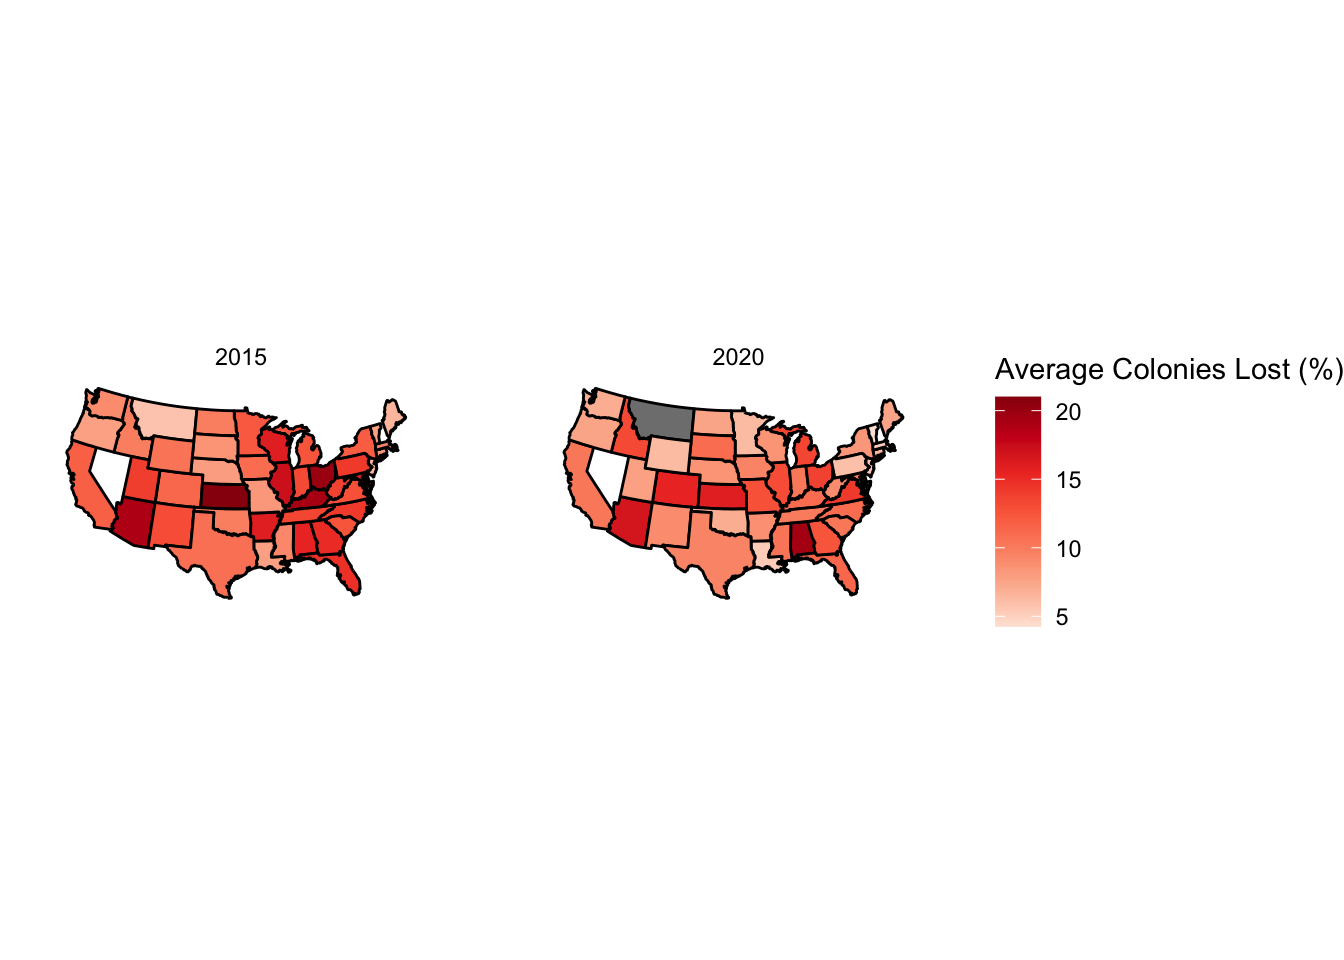
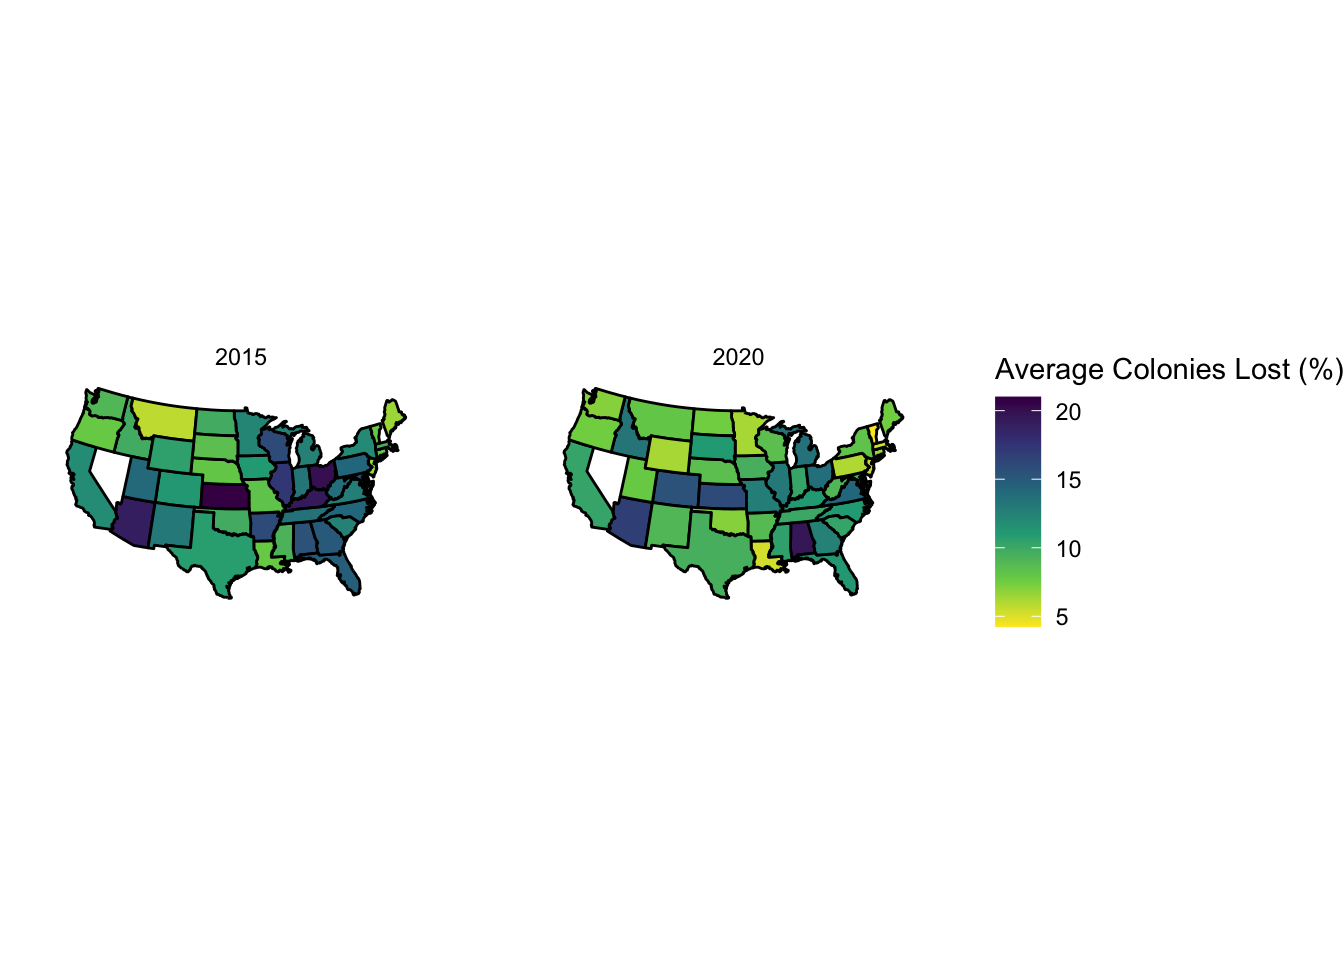
final

diff --git a/docs/posts/BlogPost3/index.html b/docs/posts/BlogPost3/index.html
@@ -195,7 +195,7 @@ pre > code.sourceCode > span > a:first-child::before { text-decoration: underlin
 <li>year</li>
 <li>state</li>
 <li>colony_n: number of bee colonies</li>
-<li>colony_reno_pct: percent of total colonies renovated</li>
+<li>colony_reno_pct: percent of total colonies renovated (either by re-queening or nucleus colony)</li>
 <li>colony_lost_pct: percent of total colonies lost</li>
 </ul>
 <div class="cell">
@@ -236,7 +236,7 @@ pre > code.sourceCode > span > a:first-child::before { text-decoration: underlin
 <p><img src="index_files/figure-html/unnamed-chunk-2-1.png" class="img-fluid" width="672"></p>
 </div>
 </div>
-<p><strong>Visual Takeaways:</strong> This plot shows the five states that are the most populous in bee colonies in 2020. California clearly has the most bee colonies for that year, also with the most variance from summer to winter months. I also want to point out that Georgia and Florida have relatively variance throughout the year; this makes sense because their seasonal turnover is much less harsh than North Dakota and California.</p>
+<p><strong>Visual Takeaways:</strong> This plot shows the five states that are the most populous in bee colonies in 2020. California clearly has the most bee colonies for that year, also with the most variance from summer to winter months. I also want to point out that Georgia and Florida have relatively low variance throughout the year; this makes sense because their seasonal turnover is much less harsh than North Dakota and California.</p>
 <p><br></p>
 </section>
 <section id="how-have-the-top-three-states-been-at-renovating-bee-colonies-from-2015-to-2020-both-in-summer-and-winter-months" class="level2">
@@ -278,31 +278,33 @@ pre > code.sourceCode > span > a:first-child::before { text-decoration: underlin
 <span id="cb5-3"><a href="#cb5-3" aria-hidden="true" tabindex="-1"></a>state_bees <span class="ot">=</span> colony <span class="sc">|&gt;</span></span>
 <span id="cb5-4"><a href="#cb5-4" aria-hidden="true" tabindex="-1"></a>  <span class="fu">mutate</span>(<span class="at">state =</span> <span class="fu">tolower</span>(state)) <span class="sc">|&gt;</span></span>
 <span id="cb5-5"><a href="#cb5-5" aria-hidden="true" tabindex="-1"></a>  <span class="fu">filter</span>(year <span class="sc">==</span> <span class="dv">2015</span> <span class="sc">|</span> year <span class="sc">==</span> <span class="dv">2020</span>) <span class="sc">|&gt;</span></span>
-<span id="cb5-6"><a href="#cb5-6" aria-hidden="true" tabindex="-1"></a>  <span class="fu">group_by</span>(state, year) <span class="sc">|&gt;</span></span>
-<span id="cb5-7"><a href="#cb5-7" aria-hidden="true" tabindex="-1"></a>  <span class="fu">summarise</span>(<span class="at">average_colonies_lost =</span> <span class="fu">mean</span>(colony_lost_pct)) <span class="sc">|&gt;</span></span>
-<span id="cb5-8"><a href="#cb5-8" aria-hidden="true" tabindex="-1"></a>  <span class="fu">mutate</span>(<span class="at">year =</span> <span class="fu">as_factor</span>(year)) <span class="sc">|&gt;</span></span>
-<span id="cb5-9"><a href="#cb5-9" aria-hidden="true" tabindex="-1"></a>  <span class="fu">left_join</span>(state_df, <span class="at">by =</span> <span class="fu">c</span>(<span class="st">"state"</span> <span class="ot">=</span> <span class="st">"region"</span>), <span class="at">relationship =</span> <span class="st">"many-to-many"</span>)</span>
-<span id="cb5-10"><a href="#cb5-10" aria-hidden="true" tabindex="-1"></a></span>
-<span id="cb5-11"><a href="#cb5-11" aria-hidden="true" tabindex="-1"></a><span class="fu">ggplot</span>(<span class="at">data =</span> state_bees,</span>
-<span id="cb5-12"><a href="#cb5-12" aria-hidden="true" tabindex="-1"></a>            <span class="at">mapping =</span> <span class="fu">aes</span>(<span class="at">x =</span> long, <span class="at">y =</span> lat,</span>
-<span id="cb5-13"><a href="#cb5-13" aria-hidden="true" tabindex="-1"></a>                          <span class="at">group =</span> group)) <span class="sc">+</span></span>
-<span id="cb5-14"><a href="#cb5-14" aria-hidden="true" tabindex="-1"></a>  <span class="fu">geom_polygon</span>(<span class="at">colour =</span> <span class="st">"black"</span>, <span class="fu">aes</span>(<span class="at">fill =</span> average_colonies_lost)) <span class="sc">+</span></span>
-<span id="cb5-15"><a href="#cb5-15" aria-hidden="true" tabindex="-1"></a>  <span class="fu">coord_map</span>(<span class="at">projection =</span> <span class="st">"albers"</span>, <span class="at">lat0 =</span> <span class="dv">39</span>, <span class="at">lat1 =</span> <span class="dv">45</span>) <span class="sc">+</span></span>
-<span id="cb5-16"><a href="#cb5-16" aria-hidden="true" tabindex="-1"></a>  <span class="fu">theme_void</span>() <span class="sc">+</span></span>
-<span id="cb5-17"><a href="#cb5-17" aria-hidden="true" tabindex="-1"></a>  <span class="fu">scale_fill_distiller</span>(<span class="at">palette =</span> <span class="st">"Reds"</span>, <span class="at">direction =</span> <span class="fl">0.5</span>) <span class="sc">+</span></span>
-<span id="cb5-18"><a href="#cb5-18" aria-hidden="true" tabindex="-1"></a>  <span class="fu">facet_wrap</span>(<span class="sc">~</span>year) <span class="sc">+</span></span>
-<span id="cb5-19"><a href="#cb5-19" aria-hidden="true" tabindex="-1"></a>  <span class="fu">labs</span>(<span class="at">fill =</span> <span class="st">"Average Colonies Lost (%)"</span>)</span></code><button title="Copy to Clipboard" class="code-copy-button"><i class="bi"></i></button></pre></div>
+<span id="cb5-6"><a href="#cb5-6" aria-hidden="true" tabindex="-1"></a>  <span class="fu">filter</span>(<span class="sc">!</span><span class="fu">is.na</span>(colony_lost_pct)) <span class="sc">|&gt;</span></span>
+<span id="cb5-7"><a href="#cb5-7" aria-hidden="true" tabindex="-1"></a>  <span class="fu">group_by</span>(state, year) <span class="sc">|&gt;</span></span>
+<span id="cb5-8"><a href="#cb5-8" aria-hidden="true" tabindex="-1"></a>  <span class="fu">summarise</span>(<span class="at">average_colonies_lost =</span> <span class="fu">mean</span>(colony_lost_pct)) <span class="sc">|&gt;</span></span>
+<span id="cb5-9"><a href="#cb5-9" aria-hidden="true" tabindex="-1"></a>  <span class="fu">mutate</span>(<span class="at">year =</span> <span class="fu">as_factor</span>(year)) <span class="sc">|&gt;</span></span>
+<span id="cb5-10"><a href="#cb5-10" aria-hidden="true" tabindex="-1"></a>  <span class="fu">left_join</span>(state_df, <span class="at">by =</span> <span class="fu">c</span>(<span class="st">"state"</span> <span class="ot">=</span> <span class="st">"region"</span>), <span class="at">relationship =</span> <span class="st">"many-to-many"</span>)</span>
+<span id="cb5-11"><a href="#cb5-11" aria-hidden="true" tabindex="-1"></a></span>
+<span id="cb5-12"><a href="#cb5-12" aria-hidden="true" tabindex="-1"></a><span class="fu">ggplot</span>(<span class="at">data =</span> state_bees,</span>
+<span id="cb5-13"><a href="#cb5-13" aria-hidden="true" tabindex="-1"></a>            <span class="at">mapping =</span> <span class="fu">aes</span>(<span class="at">x =</span> long, <span class="at">y =</span> lat,</span>
+<span id="cb5-14"><a href="#cb5-14" aria-hidden="true" tabindex="-1"></a>                          <span class="at">group =</span> group)) <span class="sc">+</span></span>
+<span id="cb5-15"><a href="#cb5-15" aria-hidden="true" tabindex="-1"></a>  <span class="fu">geom_polygon</span>(<span class="at">colour =</span> <span class="st">"black"</span>, <span class="fu">aes</span>(<span class="at">fill =</span> average_colonies_lost)) <span class="sc">+</span></span>
+<span id="cb5-16"><a href="#cb5-16" aria-hidden="true" tabindex="-1"></a>  <span class="fu">coord_map</span>(<span class="at">projection =</span> <span class="st">"albers"</span>, <span class="at">lat0 =</span> <span class="dv">39</span>, <span class="at">lat1 =</span> <span class="dv">45</span>) <span class="sc">+</span></span>
+<span id="cb5-17"><a href="#cb5-17" aria-hidden="true" tabindex="-1"></a>  <span class="fu">theme_void</span>() <span class="sc">+</span></span>
+<span id="cb5-18"><a href="#cb5-18" aria-hidden="true" tabindex="-1"></a>  <span class="fu">scale_fill_viridis_c</span>(<span class="at">direction =</span> <span class="sc">-</span><span class="dv">1</span>) <span class="sc">+</span></span>
+<span id="cb5-19"><a href="#cb5-19" aria-hidden="true" tabindex="-1"></a>  <span class="fu">facet_wrap</span>(<span class="sc">~</span>year) <span class="sc">+</span></span>
+<span id="cb5-20"><a href="#cb5-20" aria-hidden="true" tabindex="-1"></a>  <span class="fu">labs</span>(<span class="at">fill =</span> <span class="st">"Average Colonies Lost (%)"</span>)</span></code><button title="Copy to Clipboard" class="code-copy-button"><i class="bi"></i></button></pre></div>
 <div class="cell-output-display">
 <p><img src="index_files/figure-html/unnamed-chunk-5-1.png" class="img-fluid" width="672"></p>
 </div>
 </div>
 <p><strong>Visual Takeaways:</strong> There appears to be an overall trend of improvement when it comes to average bee colonies lost, particularly across the eastern United States. The one state that doesn’t follow this general trend is Alabama where its average percent of colonies lost went from around 15% in 2015 to over 20% in 2020. On the other hand, the top five states from the first plot above (California, Florida, North Dakota, Texas, and Georgia) all saw a decrease in average bee colonies lost between 2015 and 2020.</p>
+<p><strong>Note:</strong> This data set does not include bee colony data for the state of Nevada.</p>
 <p><br></p>
 </section>
 <section id="conclusion" class="level2">
 <h2 class="anchored" data-anchor-id="conclusion">Conclusion</h2>
-<p>This data set was particularly interesting to look at because I know that across the world, natural pollinators are on the decline on the global scale as a result of a loss of habitat with the ever-growing urbanization in our world. This problem poses a concerning issue since we rely on natural pollinators, like bees, to pollinate our crops we use to feed ourselves and our animals. I found it somewhat surprising that in the United States in particular, there are efforts to renovate and support our bee populations. The final graph actually leaves us with a bit of hope that there does seem to be a positive trend of improvement when it comes to bee colony losses.</p>
-<p>There may be a some flaws to my approach in analyzing these data. I could have taken a different approach by looking at time series plots of bee colony numbers, renovation projects, and changes in colony losses over time. I am happy, however with the ways in which I presented the data. If I had more data (i.e.&nbsp;daily data), it would have been easier to construct a time series of the changes in bee colonies over time and try to make a predictive model for those changes.</p>
+<p>This data set was particularly interesting to look at because I know that across the world, natural pollinators are on the decline on the global scale as a result of a loss of habitat with the ever-growing urbanization in our world. Bees also continue to be threatened by the invasive varroa mite and other diseases. This problem poses a concerning issue since we rely on natural pollinators, like bees, to pollinate our crops we use to feed ourselves and our animals. I found it somewhat surprising that in the United States in particular, there are efforts to renovate and support our bee populations. The final graph actually leaves us with a bit of hope that there does seem to be a positive trend of improvement when it comes to bee colony losses.</p>
+<p>There may be some flaws to my approach in analyzing these data. I could have taken a different approach by looking at time series plots of bee colony numbers, renovation projects, and changes in colony losses over time. I am happy, however with the ways in which I presented the data. If I had more data (i.e.&nbsp;daily data), it would have been easier to construct a time series of the changes in bee colonies over time and try to make a predictive model for those changes.</p>
 <p><strong>Connections to Class Ideas</strong></p>
 <ul>
 <li>These visuals are an effective way of communicating a story about bee colonies over space and time: I focused in on 5 of the states with the highest number of colonies and tried to share my findings in a way that is insightful.</li>

diff --git a/docs/index.html b/docs/index.html
@@ -205,7 +205,7 @@ Brody Pinto
 </a>
 </div>
 </div>
-<div class="quarto-post image-right" data-index="1" data-categories="code,analysis" data-listing-date-sort="1709787600000" data-listing-file-modified-sort="1709917537177" data-listing-date-modified-sort="NaN" data-listing-reading-time-sort="7">
+<div class="quarto-post image-right" data-index="1" data-categories="code,analysis" data-listing-date-sort="1709787600000" data-listing-file-modified-sort="1709959673095" data-listing-date-modified-sort="NaN" data-listing-reading-time-sort="8">
 <div class="thumbnail">
 <p><a href="./posts/BlogPost3/index.html"> <img src="./posts/BlogPost3/average_renovation_graph.png" class="thumbnail-image"> </a></p>
 </div>
